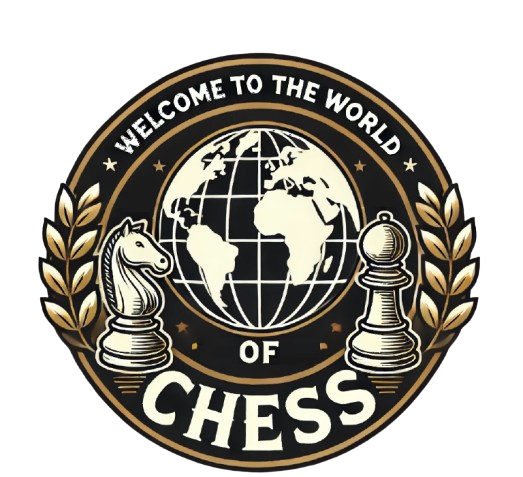
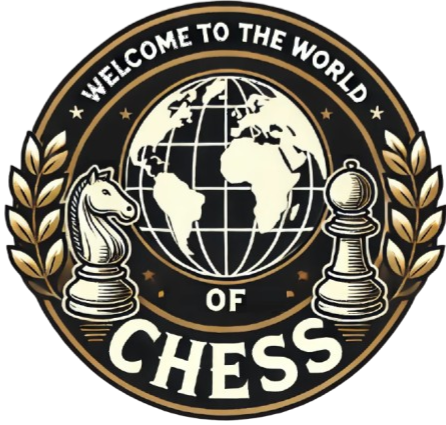
modfied: image dimensions

diff --git a/style.css b/style.css
@@ -18,7 +18,10 @@ html, body {
     align-items: center;
 }
 
-
+.first-icon {
+    width: 446px;
+    height: 452px;
+}
 
 /* .desktop-frame {
     max-width: 1440px;
